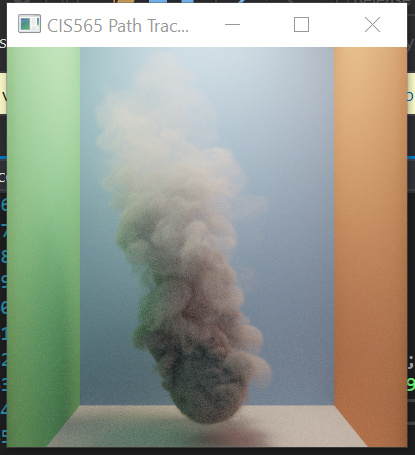
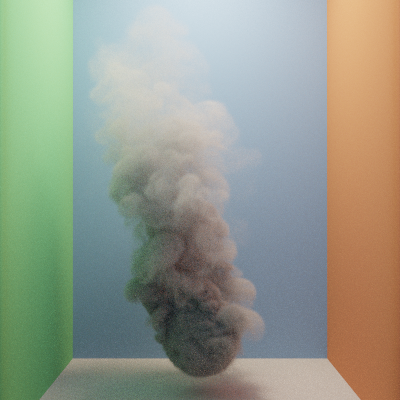
Asymmetry images

diff --git a/README.md b/README.md
@@ -157,7 +157,7 @@ Case where NEE performs better
 
 Explain absorption and how changing it's value affects appearance.
 
-| Absorption Value  |      Absorption Value |      Absorption Value |      Absorption Value |
+| sigma_a = 0.1  |  sigma_a = 0.2 | sigma_a = 0.4 | sigma_a = 0.8 |
 |:----------:    |:-------------:  |:-------------:  |:-------------:  |
 | ![](img/final/performance/parameters_converged/absorption/02_sca_1_ab_001_asy_1_den.PNG)  |  ![](img/final/performance/parameters_converged/absorption/02_sca_2_ab_001_asy_1_den.PNG)  | ![](img/final/performance/parameters_converged/absorption/02_sca_4_ab_001_asy_1_den.PNG) | ![](img/final/performance/parameters_converged/absorption/02_sca_8_ab_001_asy_1_den.PNG)
 
@@ -165,17 +165,25 @@ Explain absorption and how changing it's value affects appearance.
 
 Explain scattering and how changing it's value affects appearance.
 
-| Scattering Value  | Scattering Value | Scattering Value | Scattering Value |
+| sigma_s = 0.1  | sigma_s = 0.2 | sigma_s = 0.4 | sigma_s = 0.8 |
 |:----------:    |:-------------:  |:-------------:  |:-------------:  |
 | ![](img/final/performance/parameters_converged/scattering/1_sca_02_ab_001_asy_1_den.PNG)  |  ![](img/final/performance/parameters_converged/scattering/2_sca_02_ab_001_asy_1_den.PNG)  | ![](img/final/performance/parameters_converged/scattering/4_sca_02_ab_001_asy_1_den.PNG) | ![](img/final/performance/parameters_converged/scattering/8_sca_02_ab_001_asy_1_den.PNG)
+
+##### Density
+
+Explain density and how changing it's value affects appearance.
+
+| 1x  | 5x | 10x | 30x |
+|:----------:    |:-------------:  |:-------------:  |:-------------:  |
+| ![](img/final/performance/parameters_converged/density/2_sca_02_ab_001_asy_1_den.PNG)  |  ![](img/final/performance/parameters_converged/density/2_sca_02_ab_001_asy_5_den.PNG)  | ![](img/final/performance/parameters_converged/density/2_sca_02_ab_001_asy_10_den.PNG) | ![](img/final/performance/parameters_converged/density/2_sca_02_ab_001_asy_30_den.PNG)
 
 #### Henyey-Greenstein Phase Asymmetry 
 
 [Talk about forward and back-scattering and what phase asymmetry (g) controls]
 
-| Forward Scattering (g = ?) |   Back Scattering (g = ?) |
-|:----------:    |:-------------:  |
-| ![](img/milestone_3/depth_2.PNG)  |  ![](img/milestone_3/depth_2.PNG)  | 
+| Back Scattering (g = -0.8) |   Equal Scattering (g = 0.001) |   Forward Scattering (g = 0.8) |
+|:----------:    |:-------------:  |:-------------:  |
+| ![](img/final/performance/parameters_converged/asymmetry/2_sca_2_ab_001_asy_1_den.PNG)  |  ![](img/final/performance/parameters_converged/asymmetry/2_sca_2_ab_8_asy_1_den.PNG)  | ![](img/final/performance/parameters_converged/asymmetry/2_sca_2_ab_neg8_asy_1_den.PNG)
 
 #### Density Interpolation
 
